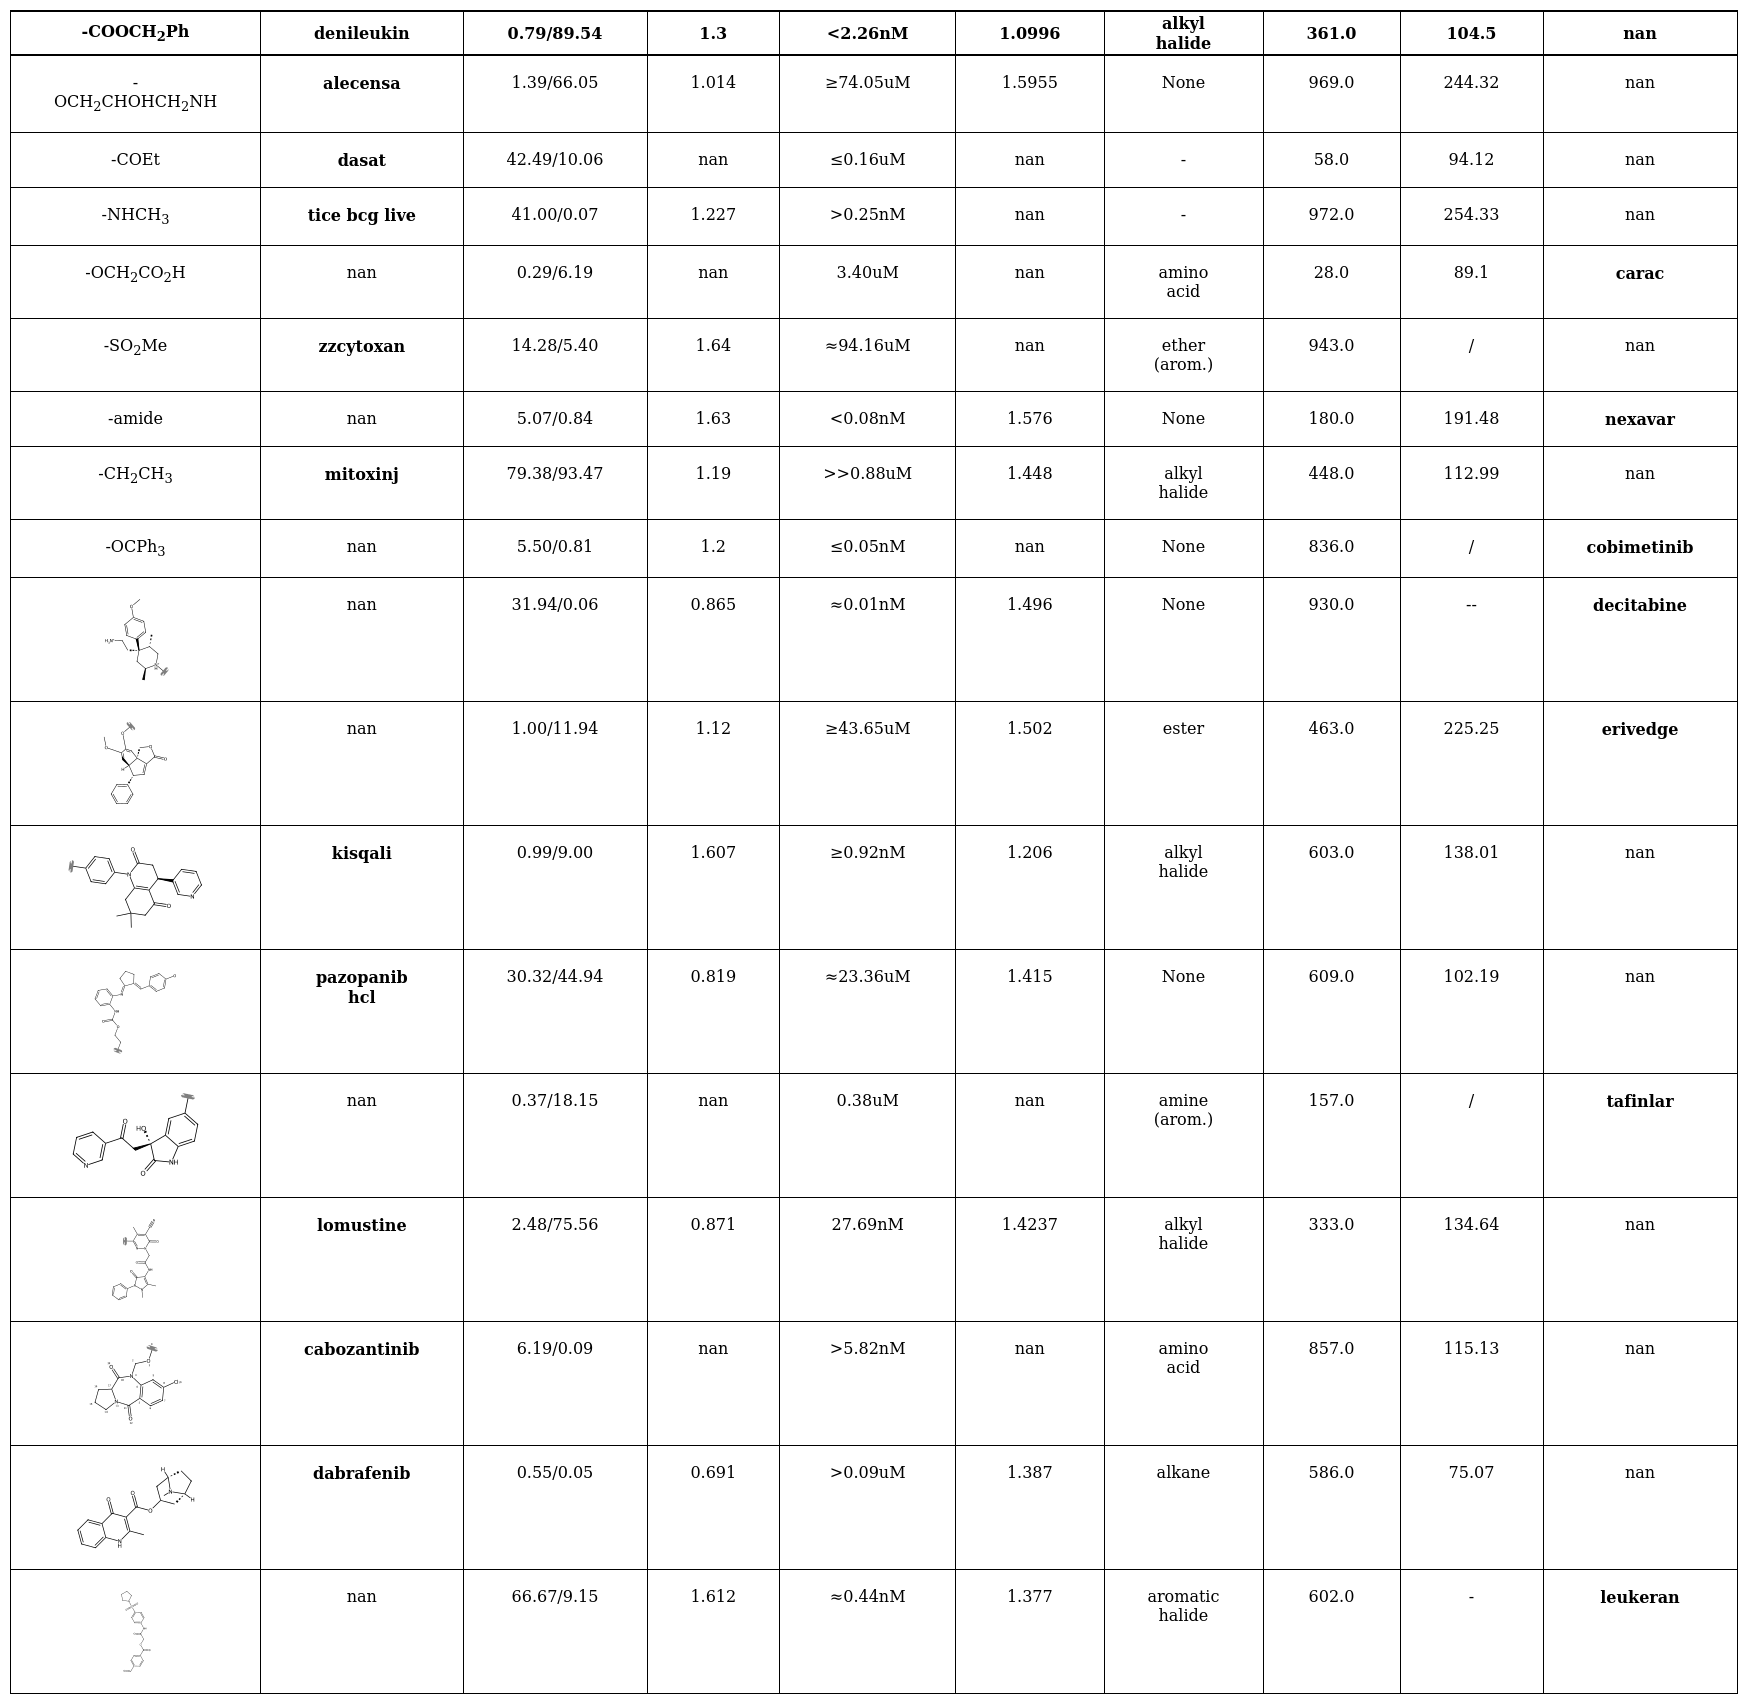
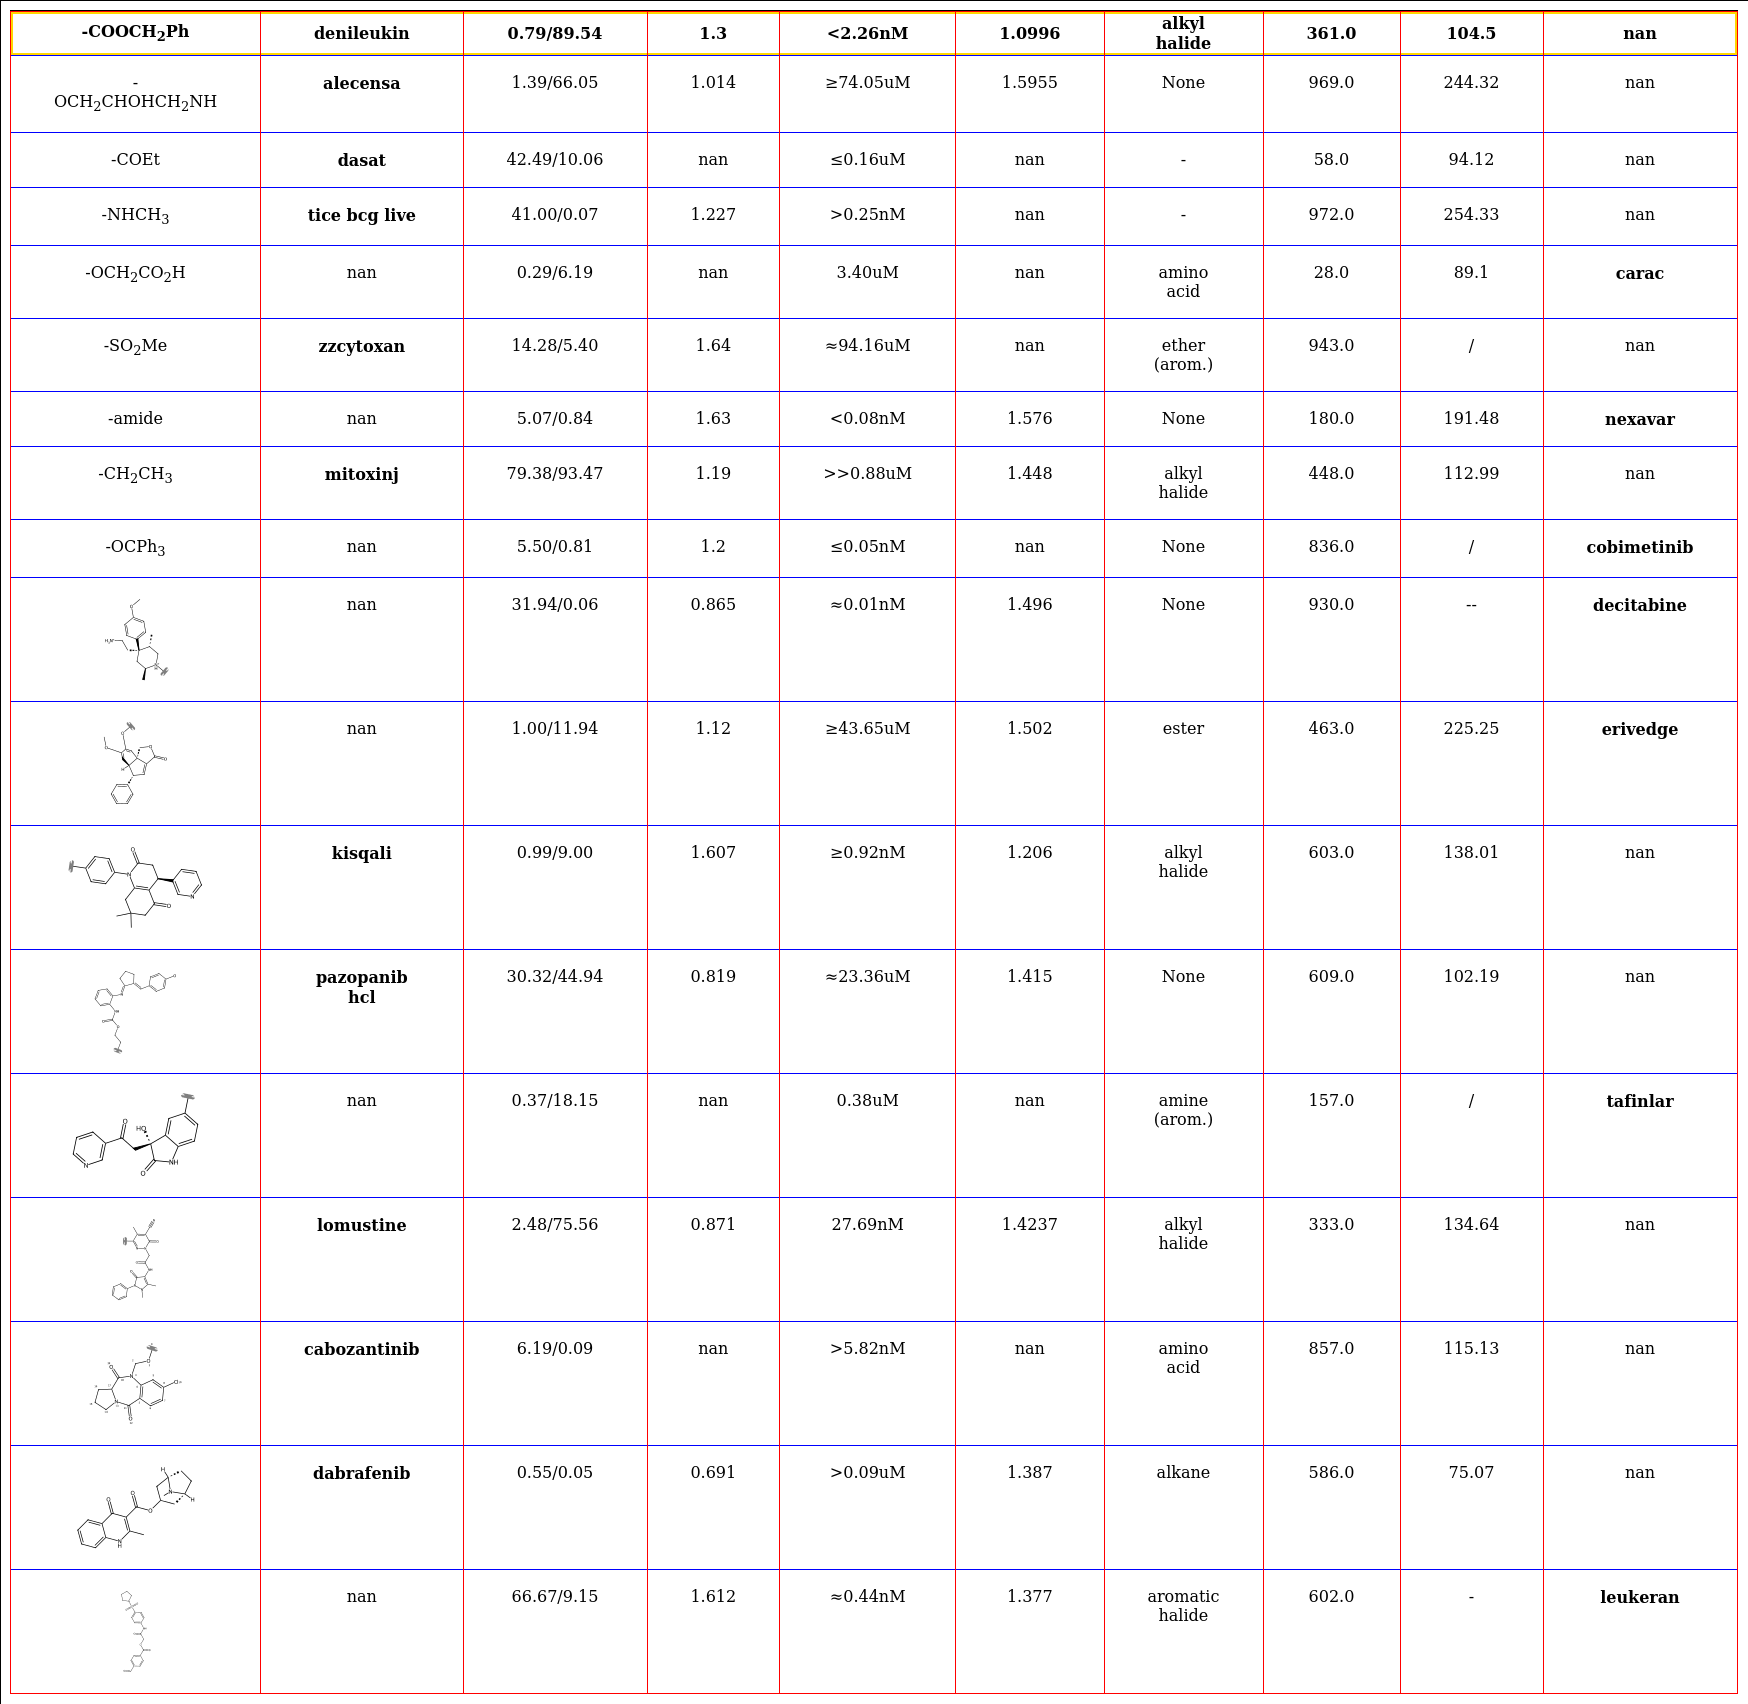
add table structure recoginization and table detection

Changed region(s): [[0.9886, 0.0, 1.0, 0.0311], [0.0, 0.0, 0.0309, 0.0311]]

diff --git a/synthesis_data_script/readme.md b/synthesis_data_script/readme.md
@@ -171,6 +171,9 @@ python syn_table_structure_simple.py
     </table>
 </body>
 </html>
+> blue: columns
+> red: row
+> gold: row header
 
 
 
